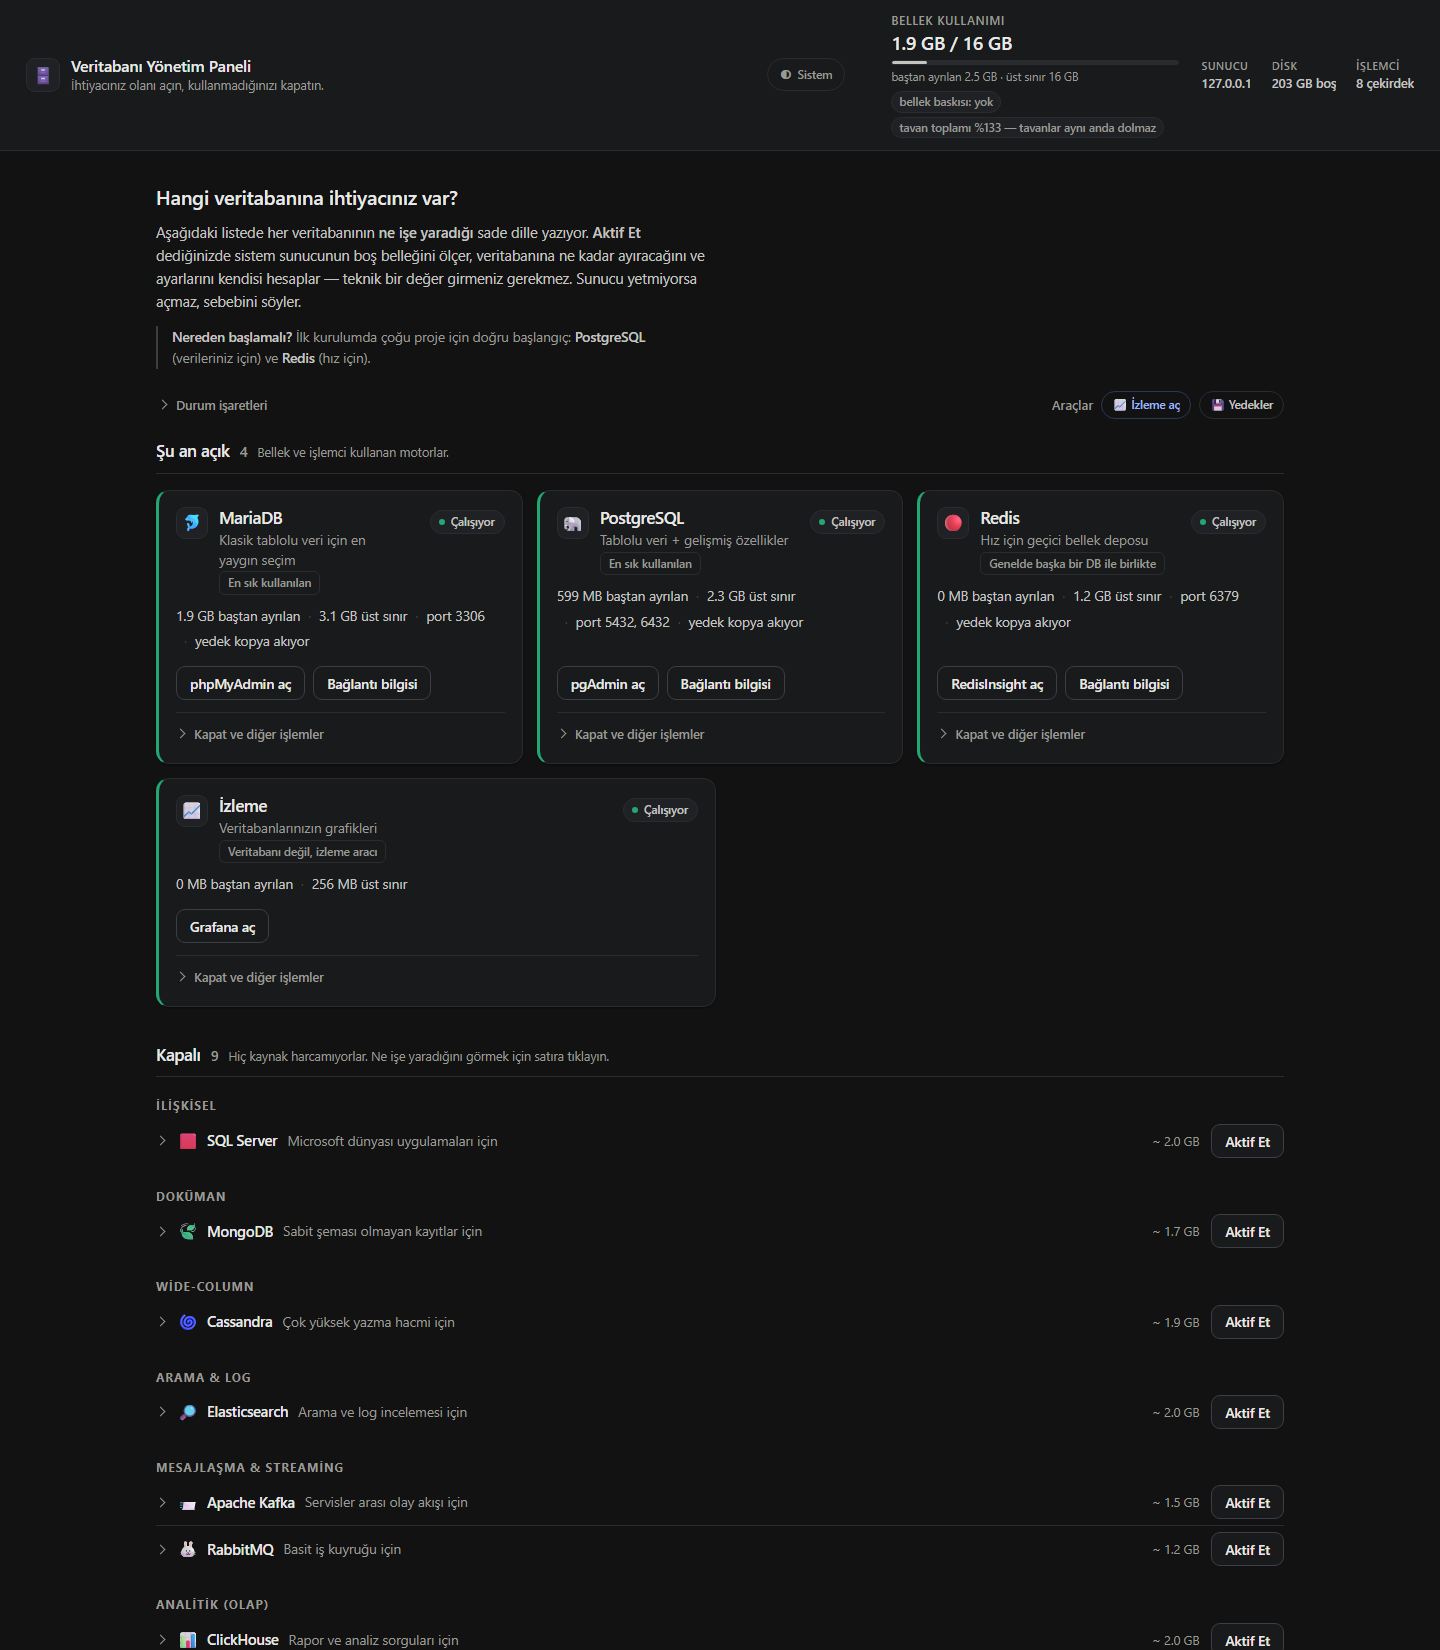
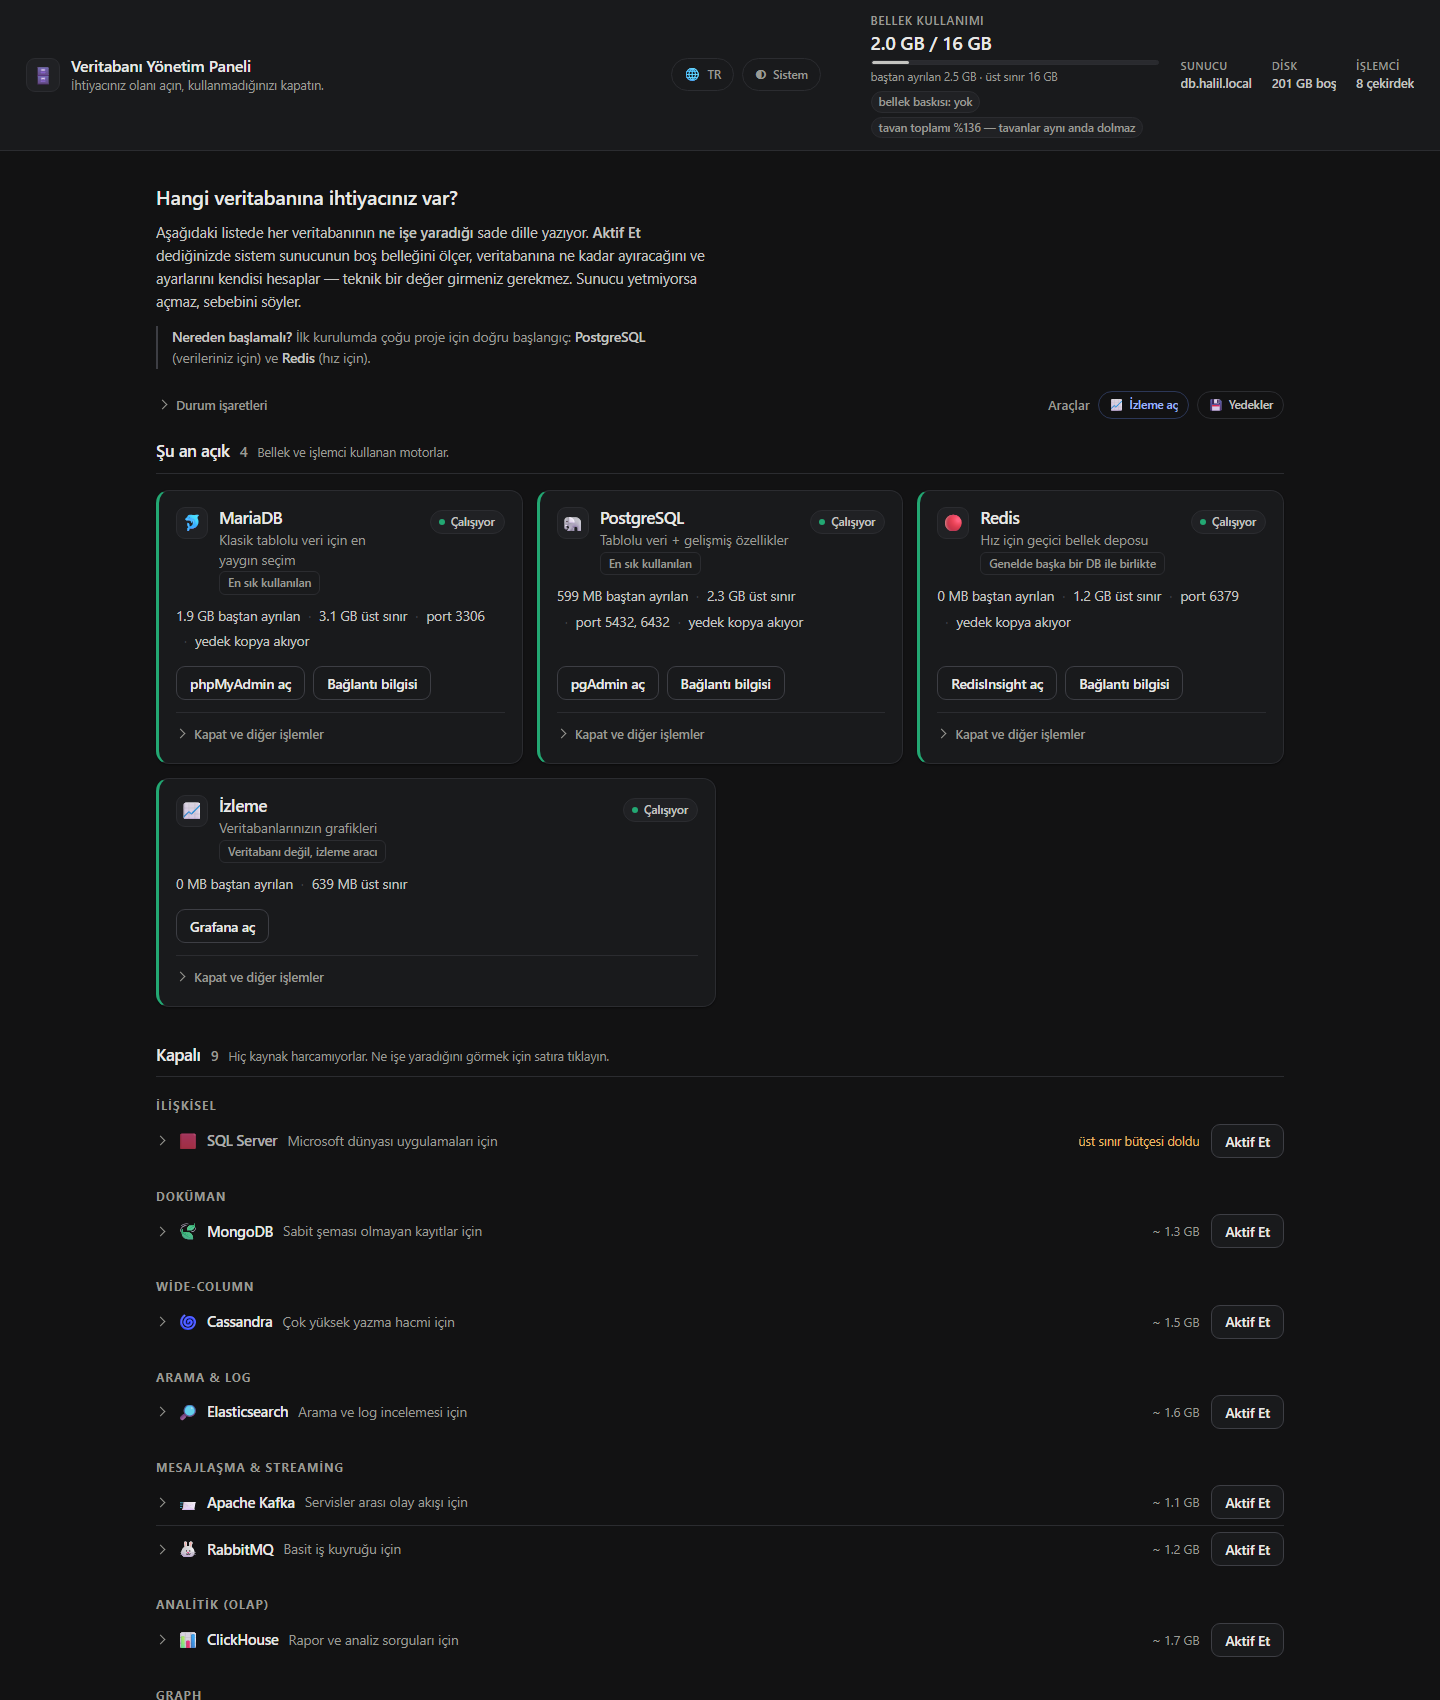
docs: ekran görüntüleri yenilendi — İngilizce README artık İngilizce panel gösteriyor
Eskiler 2 Eylül'den kalmaydı: üst bardaki dil/görünüm düğmeleri hâlâ eski
yerindeydi, dört yeni özellik (gölge geri yükleme, şema parmak izi,
kurtarma noktaları, oturum geçmişi) hiç görünmüyordu ve İngilizce README
TÜRKÇE panelin görüntülerini kullanıyordu — okuyucunun ilk gördüğü şey
anlamadığı bir arayüzdü.

  · ss/     → Türkçe panel (README.tr.md)
  · ss/en/  → İngilizce panel (README.md)

Sunucu adı IP yerine db.halil.local: görüntüler tarayıcıya o adla
gidilerek alındı (Chrome --host-resolver-rules), yani panelde yazan ad
gerçekten sayfanın gördüğü ad — sonradan silinmiş bir IP değil.

Veriler sunucudan alınmış gerçek /api/* cevapları; kurtarma noktası
listesinin başındaki 'v1.0' seti de gerçekten alındı.

diff --git a/README.md b/README.md
@@ -24,7 +24,7 @@ your application's connection address changing.
 ## What does it look like?
 
 <div align="center">
-<img src="ss/01-panel.png" alt="Management panel" width="900">
+<img src="ss/en/01-panel.png" alt="Management panel" width="900">
 </div>
 
 The page has two zones. At the top, the ones that are **currently on**, as
@@ -44,7 +44,7 @@ kernel's memory pressure was zero.
 Details: [Memory is calculated automatically](#memory-is-calculated-automatically).
 
 <div align="center">
-<img src="ss/03-islemler.png" alt="Hard-to-undo actions in a collapsed section" width="900">
+<img src="ss/en/03-islemler.png" alt="Hard-to-undo actions in a collapsed section" width="900">
 </div>
 
 Everyday actions are on the face of the card (open the panel, connection info).
@@ -54,7 +54,7 @@ sentence what will happen**. Hitting the wrong one out of six buttons standing
 side by side is not possible in this product.
 
 <div align="center">
-<img src="ss/06-yedekler.png" alt="Backups page" width="900">
+<img src="ss/en/06-yedekler.png" alt="Backups page" width="900">
 </div>
 
 Backups have their own page (**Tools ("Araçlar") → Backups ("Yedekler")**): the
@@ -86,7 +86,7 @@ PromQL query; and when you turn it off, it drops out of the target list by
 itself.
 
 <div align="center">
-<img src="ss/04-olaylar.png" alt="Recent events" width="900">
+<img src="ss/en/04-olaylar.png" alt="Recent events" width="900">
 </div>
 
 At the bottom of the panel **it says what happened**: which engine came up when,
@@ -96,7 +96,7 @@ what is going on from here, without logging into the server and reading
 `docker logs`.
 
 <div align="center">
-<img src="ss/02-kurulum.png" alt="Certificate installation guide" width="620">
+<img src="ss/en/02-kurulum.png" alt="Certificate installation guide" width="620">
 </div>
 
 There is no domain name on an internal network, so the server produces the TLS
